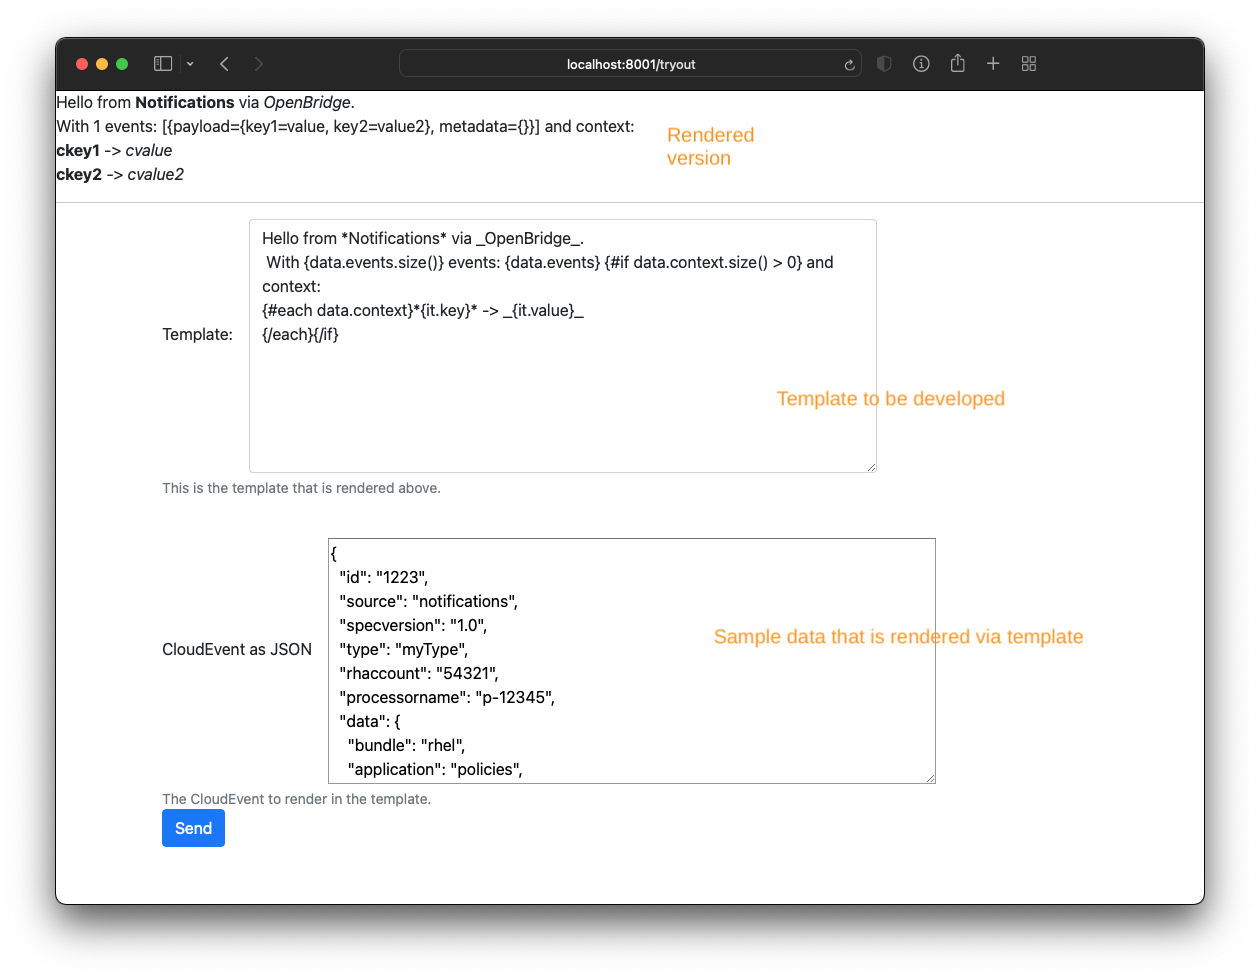
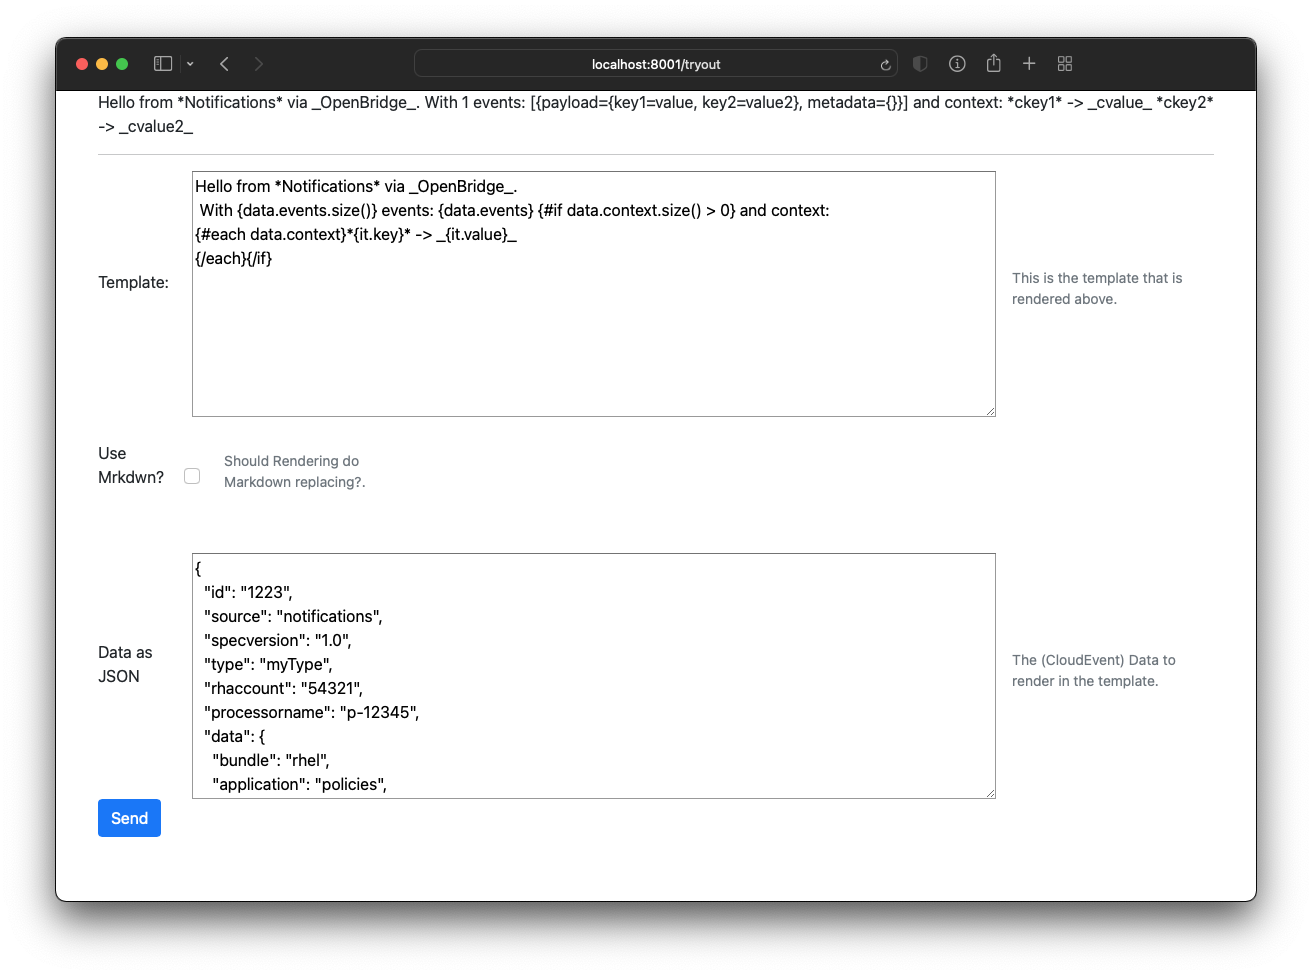
Make rendered page much nicer. Allow to enable/disable Markdown processing

diff --git a/src/main/resources/form.html b/src/main/resources/form.html
@@ -1,32 +1,44 @@
-<link href="https://cdn.jsdelivr.net/npm/bootstrap@5.0.2/dist/css/bootstrap.min.css" rel="stylesheet" integrity="sha384-EVSTQN3/azprG1Anm3QDgpJLIm9Nao0Yz1ztcQTwFspd3yD65VohhpuuCOmLASjC" crossorigin="anonymous">
+</div>
 <div class="container">
   <form>
     <div class="row g-3 align-items-center">
-      <div class="mb-3 col-auto">
+      <div class="mb-3 col-1">
         <label for="template" class="form-label">Template:</label>
       </div>
       <div class="col-auto">
-        <textarea rows="10" cols="60" id="template" name="template" class="form-control">
+        <textarea rows="10" cols="80" id="template" name="template" >
 ##TEMPLATE##
         </textarea>
       </div>
-      <div id="templateHelp" class="form-text col-auto">This is the template that is rendered above.</div>
+      <div id="templateHelp" class="form-text col-2">This is the template that is rendered above.</div>
     </div>
-    <br/>
+      <br/>
+      <div class="row g-3 align-items-center">
+          <div class="mb-3 col-1">
+              <label for="useMrkdwn" class="form-label">Use Mrkdwn?</label>
+          </div>
+          <div class="col-auto form-check">
+              <input type="checkbox" id="useMrkdwn" name="useMrkdwn" class="form-check-input" ##MDCHECKED##>
+          </div>
+          <div id="updateHelp" class="form-text col-2">Should Rendering do Markdown replacing?.</div>
+      </div>
+      <br/>
 
     <p/>
     <div class="row g-3 align-items-center">
-      <div class="mb-3 col-auto">
-        <label for="params" class="form-label">CloudEvent as  JSON</label>
+      <div class="mb-3 col-1">
+        <label for="params" class="form-label">Data as JSON</label>
       </div>
       <div class="col-auto">
-  <textarea rows="10" cols="60" id="params" name="params">
+  <textarea rows="10" cols="80" id="params" name="params">
 ##PARAMS##
   </textarea><br/>
       </div>
-      <div id="paramsHelp" class="form-text col-auto">The CloudEvent to render in the template.</div>
+      <div id="paramsHelp" class="form-text col-2">The (CloudEvent) Data to render in the template.</div>
     </div>
     <p/>
     <button type="submit" class="btn btn-primary">Send</button>
   </form>
 </div>
+</body>
+</html>

diff --git a/src/main/resources/formHead.html b/src/main/resources/formHead.html
@@ -1,0 +1,6 @@
+<html>
+<head>
+<link href="https://cdn.jsdelivr.net/npm/bootstrap@5.0.2/dist/css/bootstrap.min.css" rel="stylesheet" integrity="sha384-EVSTQN3/azprG1Anm3QDgpJLIm9Nao0Yz1ztcQTwFspd3yD65VohhpuuCOmLASjC" crossorigin="anonymous">
+</head>
+<body>
+<div class="container">

diff --git a/src/main/java/de/bsd/qute/tester/Tryout.java b/src/main/java/de/bsd/qute/tester/Tryout.java
@@ -37,8 +37,10 @@ public class Tryout {
     @Transactional
     public String showUI(@QueryParam("params") String params,
                          @QueryParam("template") String incomingTemplate,
+                         @QueryParam("useMrkdwn") String useMrkdwn,
                          @Context UriInfo uriInfo) {
 
+        String formHead = getFromResources("formHead.html");
         String form = getFromResources("form.html");
 
         if (params == null || params.isBlank()) {
@@ -50,17 +52,26 @@ public class Tryout {
         template = fillDefaultIfNeeded(template, sampleTemplate);
 
         String escaped = escape(template);
+        escaped = escaped.trim();
 
         Map<String, Object> payload;
         try {
             payload = new ObjectMapper().readValue(params, Map.class);
         } catch (JsonProcessingException e) {
-            return "Could not process parameters : " + e.getMessage() +
+            return formHead + "\n<br/>Could not process parameters : " + e.getMessage() +
                     "<p/><hr/><p/>" + form;
         }
 
+        boolean useMarkdown = false;
+        if (useMrkdwn != null && useMrkdwn.equals("on")) {
+            useMarkdown = true;
+        }
+
         String rendered = tp.renderTemplate(template, payload);
-        rendered = htmlifyMrkDown(rendered);
+        if (useMarkdown) {
+            rendered = htmlifyMrkDown(rendered);
+        }
+        rendered = rendered.trim();
 
         if (params==null || params.isBlank()) {
             form = form.replaceAll("##PARAMS##", sampleParams);
@@ -68,9 +79,10 @@ public class Tryout {
             form = form.replaceAll("##PARAMS##", params.trim());
         }
         form = form.replaceAll("##TEMPLATE##", escaped);
+        form = form.replaceAll("##MDCHECKED##", useMarkdown ? "checked":"");
 
-        return rendered +
-                "<p/><hr/><p/>" +
+        return formHead + "\n<!-- Rendered template below -->\n" + rendered +
+                "\n<!-- Rendered template above -->\n<p/><hr/><p/>" +
                 form;
 
 
